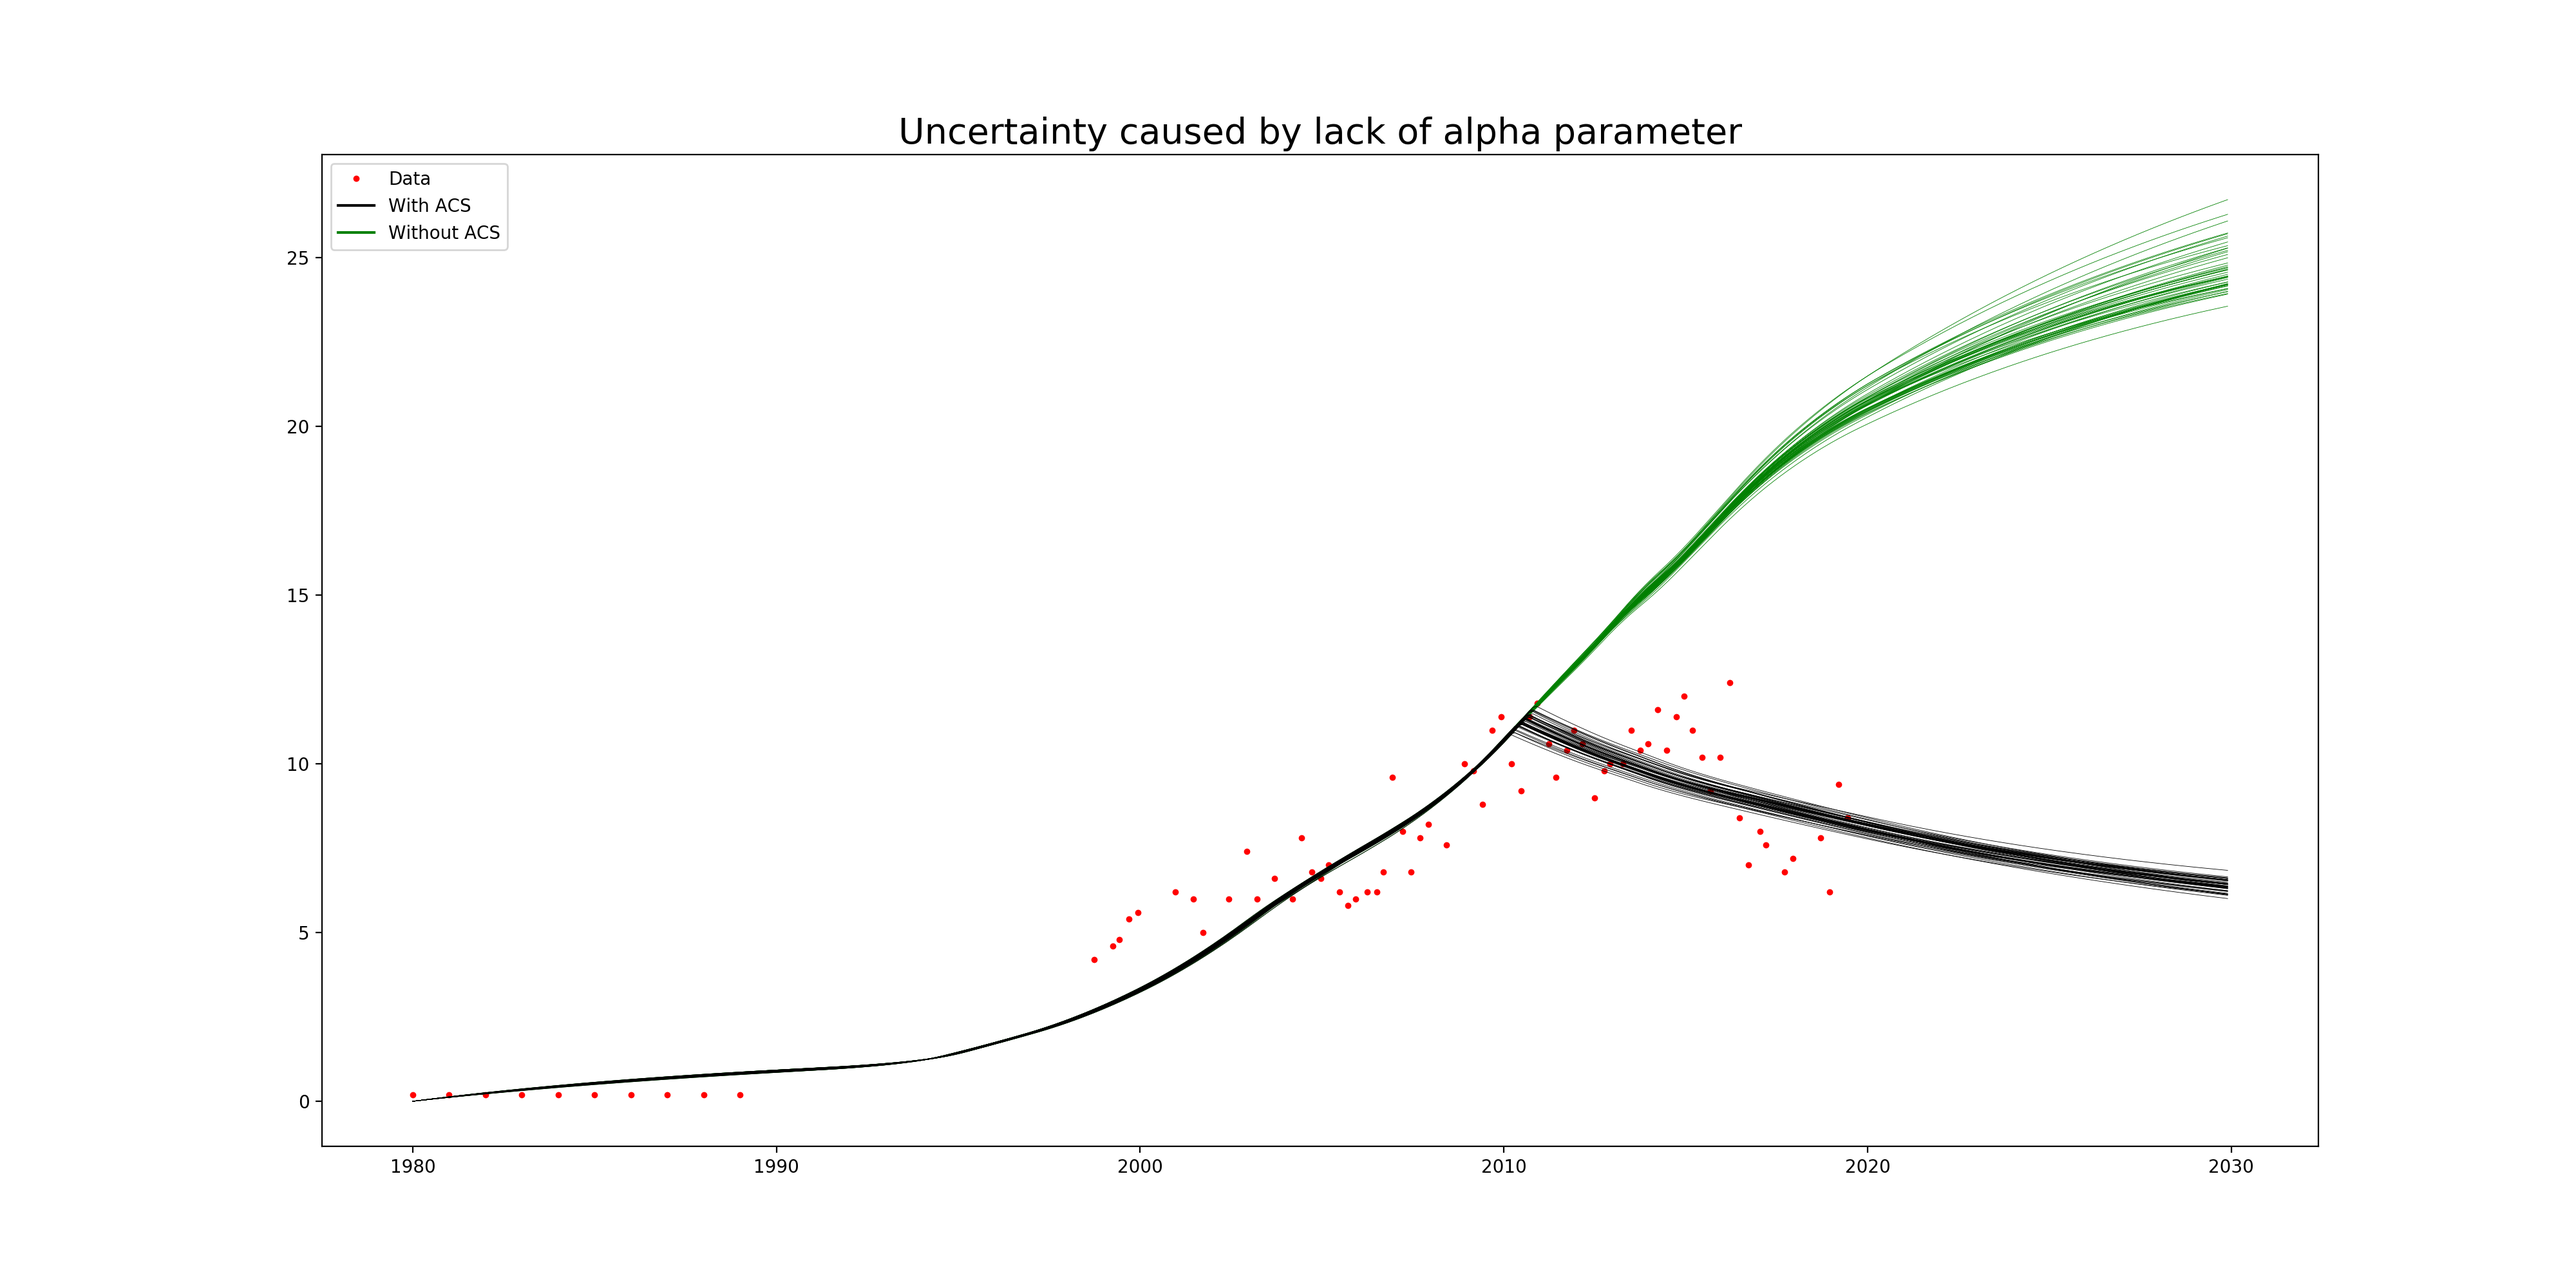
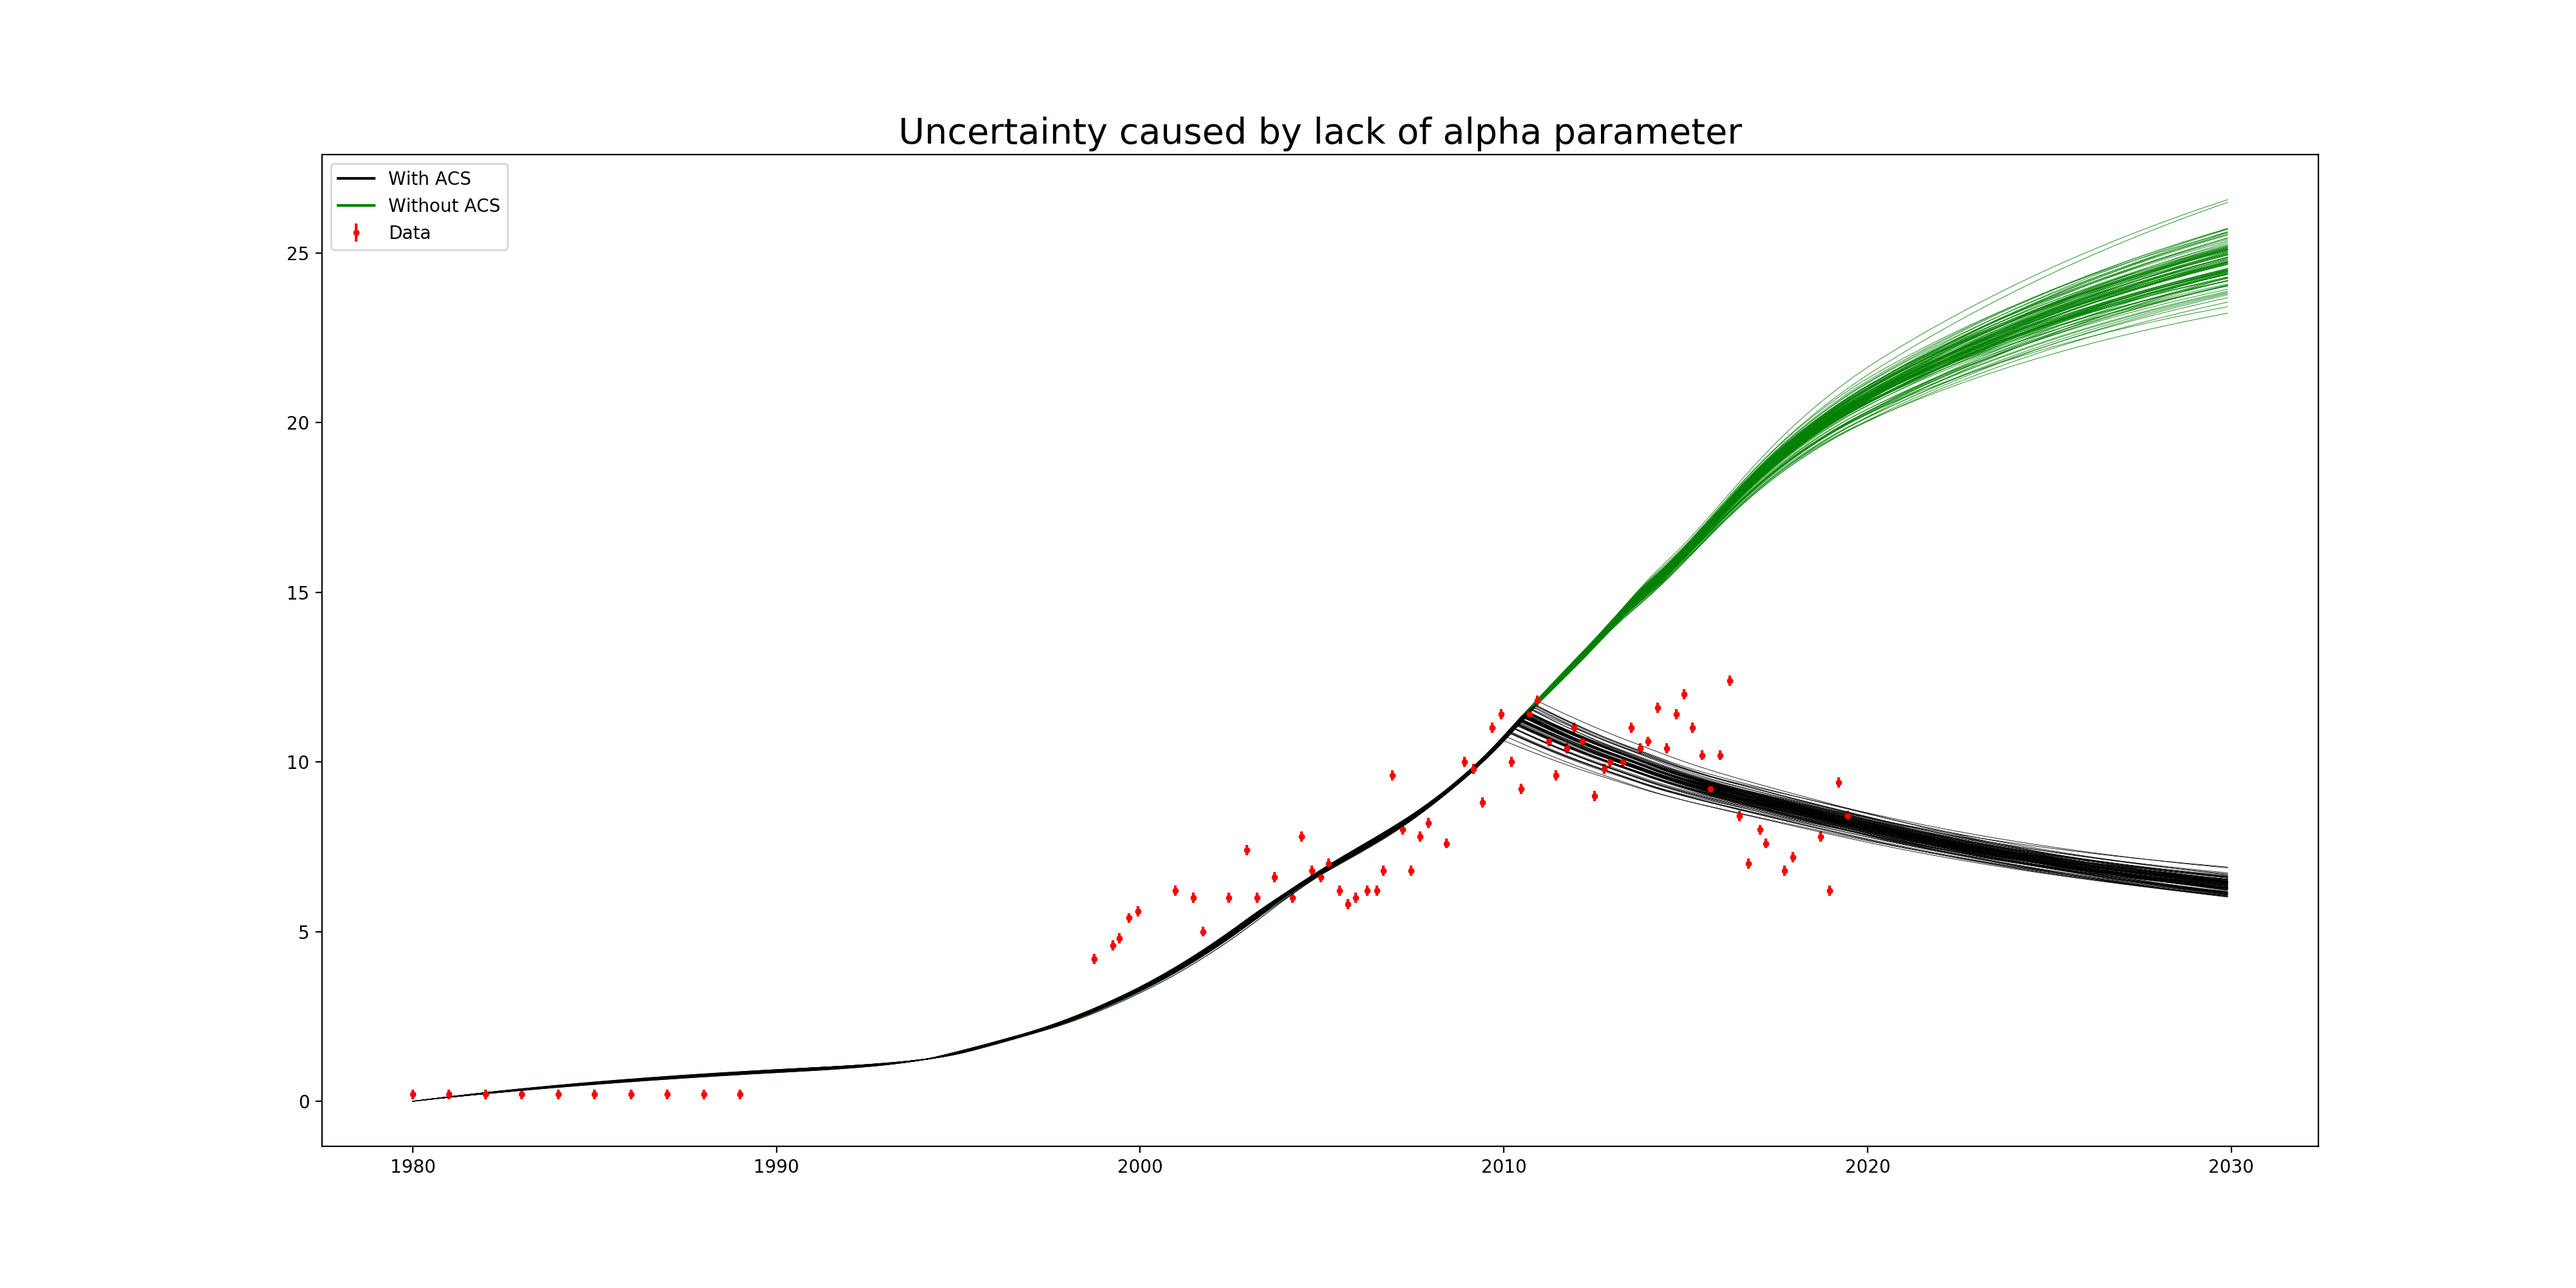
Confidence intervals for uncertainty

diff --git a/plotting_functions.py b/plotting_functions.py
@@ -1,6 +1,7 @@
 # This scipt contains the function that generate figures
 import os
 import numpy as np
+from scipy import stats
 from matplotlib import pyplot as plt
 from testing_functions import *
 
@@ -120,12 +121,16 @@ def what_ifs():
     #ax.plot(t, LPM_Model_forecast(t, b1, alpha, bc, tau, 0), 'k-', label='Forecast best-fit', alpha=0.5)
 
     ax.plot(t_forecast, LPM_Model_forecast(t_forecast, b1, alpha, bc, tau, 0.0), 'm-')
+    #print(LPM_Model_forecast(t_forecast, b1, alpha, bc, tau, 0.0)[-1])
 
     ax.plot(t_forecast, LPM_Model_forecast(t_forecast, b1, alpha, bc, tau, 0.05), 'g-')
+    #print(LPM_Model_forecast(t_forecast, b1, alpha, bc, tau, 0.05)[-1])
 
     ax.plot(t_forecast, LPM_Model_forecast(t_forecast, b1, alpha, bc, tau, 0.1), 'b-')
+    #print(LPM_Model_forecast(t_forecast, b1, alpha, bc, tau, 0.1)[-1])
 
     ax.plot(t_forecast, LPM_Model_forecast(t_forecast, b1, alpha, bc, tau, 0.15), 'r-')
+    #print(LPM_Model_forecast(t_forecast, b1, alpha, bc, tau, 0.15)[-1])
 
     ax.plot(t, LPM_Model_forecast(t, b1, alpha, bc, tau, 0), 'k-', label='Best-fit model')
     ax.plot([], [], 'm-', label='$dP_{mar}$ = 0.0 MPa')
@@ -168,6 +173,7 @@ def without_acs():
     plt.close(fig)
 
 
+
 def what_ifs_uncertainty():
     '''
     Plots the several different 'what-if' scenarios for different managed aquifer recharge pressures but
@@ -185,22 +191,31 @@ def what_ifs_uncertainty():
 
     t_forecast = np.arange(2019.99,2030,step=0.05)
 
-    v=0.3
+    v=0.15
     fig = plt.figure(figsize=(20,10))
     ax = fig.add_subplot(111)
     #ax.plot(t0x,c0, 'ro', label="data", markersize=2.5)
+    C = np.zeros(ps.shape[0])
 
     for pi in range(0,ps.shape[0]):
+        C[pi] = LPM_Model_forecast(t_forecast, ps[pi][0], ps[pi][1], ps[pi][2], ps[pi][3],0)[-1]
         ax.plot(t_forecast, LPM_Model_forecast(t_forecast, ps[pi][0], ps[pi][1], ps[pi][2], ps[pi][3],0), 'm-', lw=0.3)
+    #confidence_int(C,'What If, NO MAR')
 
     for pi in range(0,ps.shape[0]):
+        C[pi] = LPM_Model_forecast(t_forecast, ps[pi][0], ps[pi][1], ps[pi][2], ps[pi][3],0.05)[-1]
         ax.plot(t_forecast, LPM_Model_forecast(t_forecast, ps[pi][0], ps[pi][1], ps[pi][2], ps[pi][3],0.05), 'g-', lw=0.3)
+    #confidence_int(C,'What If, 0.05')
 
     for pi in range(0,ps.shape[0]):
+        C[pi] = LPM_Model_forecast(t_forecast, ps[pi][0], ps[pi][1], ps[pi][2], ps[pi][3],0.1)[-1]
         ax.plot(t_forecast, LPM_Model_forecast(t_forecast, ps[pi][0], ps[pi][1], ps[pi][2], ps[pi][3],0.1), 'b-', lw=0.3)
+    #confidence_int(C,'What If, 0.1')
 
     for pi in range(0,ps.shape[0]):
+        C[pi] =  LPM_Model_forecast(t_forecast, ps[pi][0], ps[pi][1], ps[pi][2], ps[pi][3],0.15)[-1]
         ax.plot(t_forecast, LPM_Model_forecast(t_forecast, ps[pi][0], ps[pi][1], ps[pi][2], ps[pi][3],0.15), 'r-', lw=0.3)
+    #confidence_int(C,'What if, 0.15')
 
     for pi in range(0,ps.shape[0]):
         ax.plot(t_pos, LPM_Model_forecast(t_pos, ps[pi][0], ps[pi][1], ps[pi][2], ps[pi][3],0), 'k-', lw=0.3)
@@ -234,15 +249,24 @@ def without_acs_uncertainty():
 
     fig = plt.figure(figsize=(20,10))
     ax = fig.add_subplot(111)
-    ax.plot(t0,c0, 'ro', label="Data", markersize=2.5)
+    #ax.plot(t0,c0, 'ro', label="Data", markersize=2.5)
+    v = 0.15
+    ax.errorbar(t0,c0,yerr=v,fmt='ro', label='Data', markersize=2.5)
+    C = np.zeros(ps.shape[0])
 
     for pi in range(0,ps.shape[0]):
+        C[pi] = LPM_Model_forecast(t_pos, ps[pi][0], 1, ps[pi][2], ps[pi][3],0)[-1]
         ax.plot(t_pos, LPM_Model_forecast(t_pos, ps[pi][0], 1, ps[pi][2], ps[pi][3],0), 'g-', lw=0.3)
 
+  
+    confidence_int(C,'Without ACS')
 
     for pi in range(0,ps.shape[0]):
+        C[pi] = LPM_Model_forecast(t_pos, ps[pi][0], ps[pi][1], ps[pi][2], ps[pi][3],0)[-1]
         ax.plot(t_pos, LPM_Model_forecast(t_pos, ps[pi][0], ps[pi][1], ps[pi][2], ps[pi][3],0), 'k-', lw=0.3)
 
+    confidence_int(C,'With ACS')
+   
     ax.plot([],[], 'k-', label = 'With ACS')
     ax.plot([],[], 'g-', label = 'Without ACS')
     ax.legend()
@@ -252,6 +276,9 @@ def without_acs_uncertainty():
     plt.close(fig)
 
 def misfit_plot(old):
+    '''
+    Produces a misfit plot
+    '''
 
     t = np.arange(1980,2030,step = 0.1)
     t0, c0 = np.genfromtxt("Data"+ os.sep +'nl_n.csv', delimiter=',', skip_header=1).T

diff --git a/model_functions.py b/model_functions.py
@@ -3,6 +3,7 @@ import os
 import numpy as np
 from scipy.optimize import curve_fit
 from matplotlib import pyplot as plt
+from scipy import stats
 
 # Data used in multiple functions
 tn, n = np.genfromtxt("Data"+ os.sep +'nl_cows.txt', delimiter=',', skip_header=1).T
@@ -237,7 +238,7 @@ def posterior_pars():
     p, cov = curve_fit(LPM_Model,t0,c0, sigma = sigma,bounds=((0,0,0,0.5),(1e-04,np.inf,np.inf,np.inf)), absolute_sigma=True)
     
     #cov = 0.04*cov
-    pos = np.random.multivariate_normal(p, cov, 50) # random variates of the calibrated pars
+    pos = np.random.multivariate_normal(p, cov, 100) # random variates of the calibrated pars
     
     return pos, p
 
@@ -427,3 +428,14 @@ def LPM_Model_forecast(t,b1,alpha, bc,tau, dP_Mar):
     
     return C_interp
 
+def confidence_int(data, name): 
+    '''
+    Computes and prints a 90% confidence interval for the data
+
+    '''
+
+    std = np.std(data)
+    mean = np.mean(data)
+    ci = stats.norm.interval(0.9,loc = mean, scale = std)
+    print(name)
+    print(ci)
